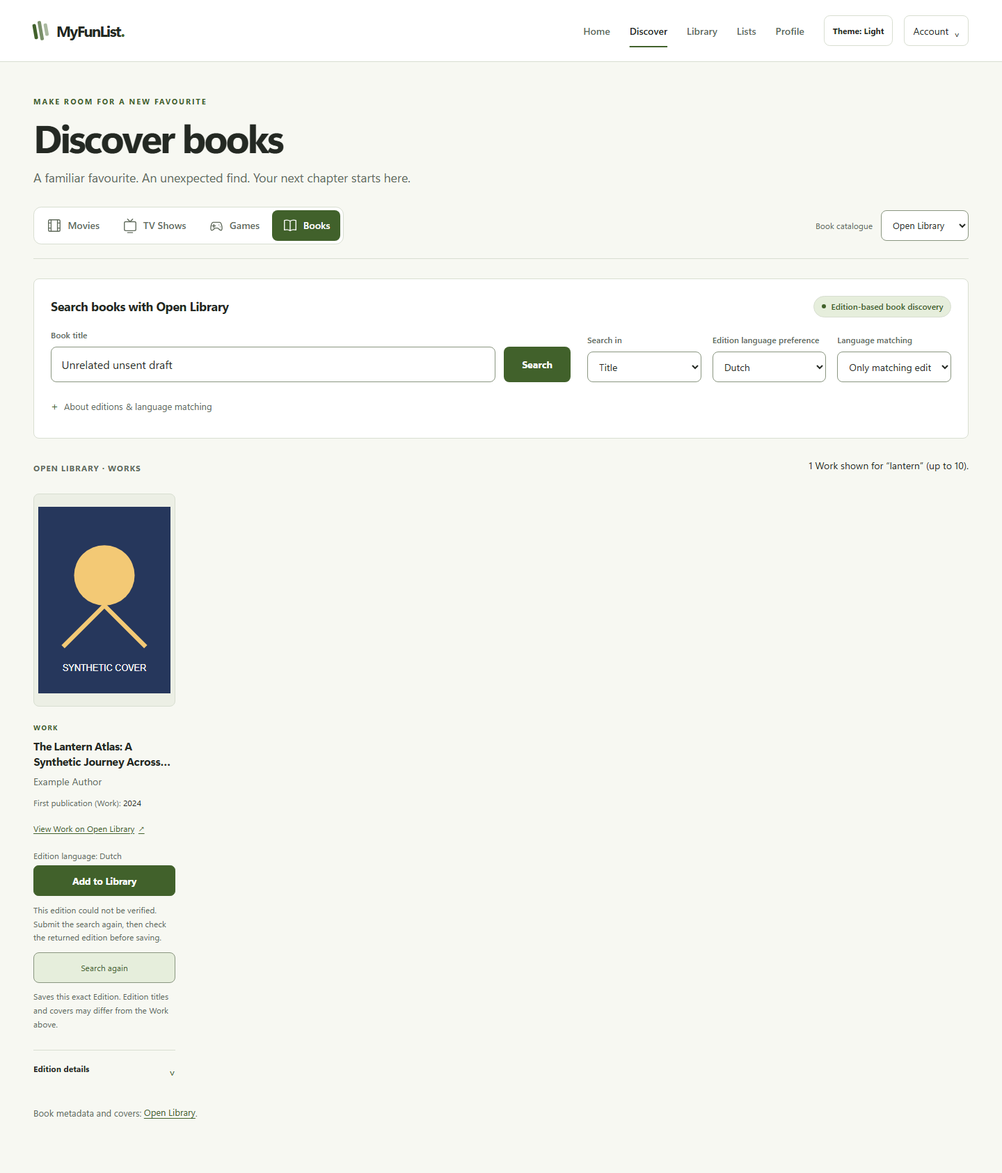
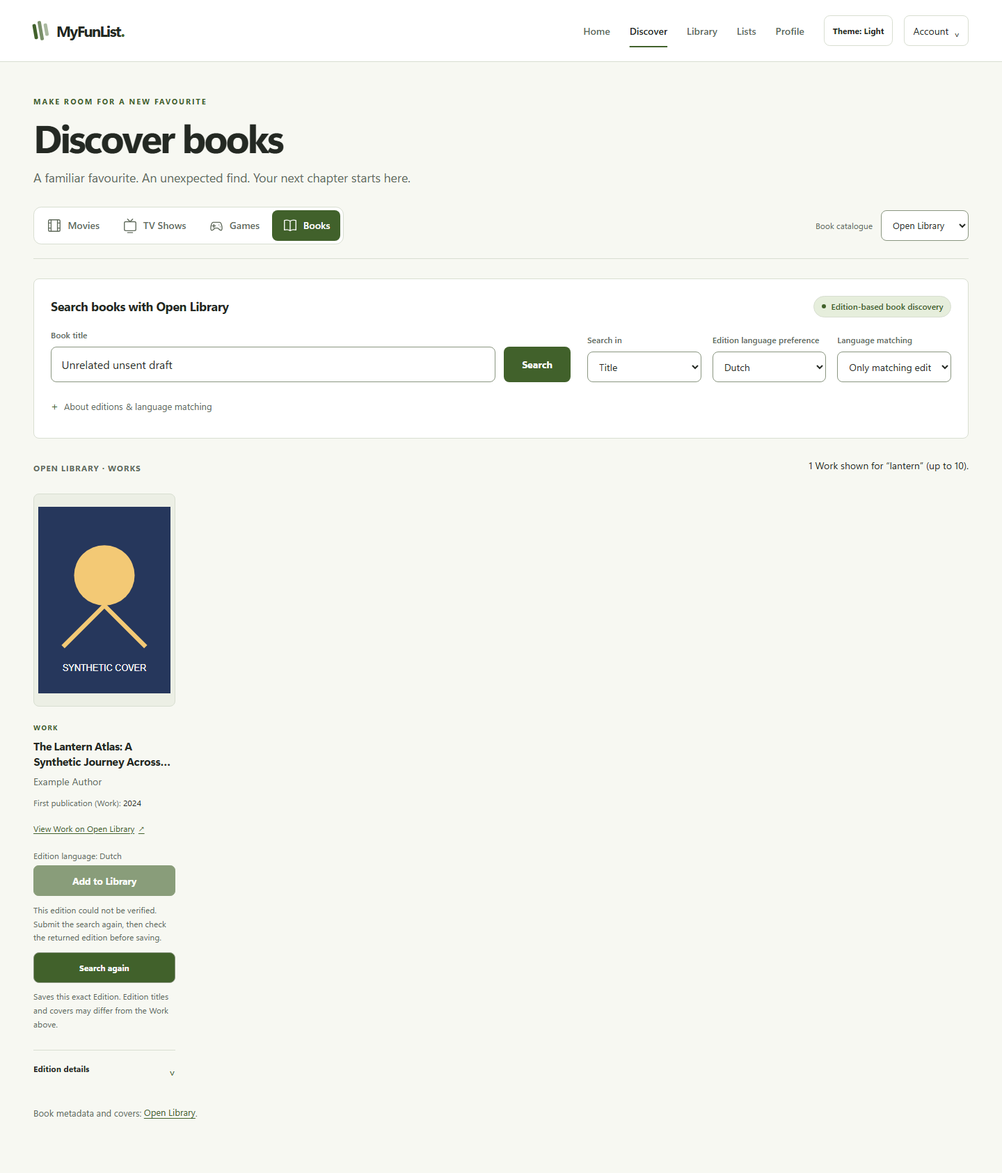
fix: block rejected edition saves until search renewal

Changed region(s): [[0.0312, 0.8024, 0.1875, 0.8641], [0.0312, 0.7407, 0.1875, 0.7715]]

diff --git a/tests/openLibraryView.test.js b/tests/openLibraryView.test.js
@@ -18,6 +18,7 @@ const OpenLibraryDiscover = await loadVueComponent(new URL('../src/components/Op
 OpenLibraryDiscover.name = 'OpenLibraryDiscover'
 const DiscoverView = await loadVueComponent(new URL('../src/views/DiscoverView.vue', import.meta.url))
 const WorkCard = await loadVueComponent(new URL('../src/components/OpenLibraryWorkCard.vue', import.meta.url))
+const LibraryAddButton = await loadVueComponent(new URL('../src/components/LibraryAddButton.vue', import.meta.url))
 const originalFetch = globalThis.fetch
 const mounted = []
 const work = { provider: 'open-library', workId: 'OL1W', workTitle: 'A modern book', authors: [], firstPublicationYear: 2024,
@@ -434,6 +435,86 @@ test('rejected trusted-cache saves require manual search refresh and preserve li
   assert.equal(useLibrary().libraryItems.value.length, 0)
 })
 
+test('an unverifiable card blocks UI and emitted save attempts while unrelated cards remain available', async () => {
+  currentUser.value = { id: '10', email: 'fixture@example.test' }
+  const writes = []
+  globalThis.fetch = async (path, options) => {
+    if (path === '/api/v1/auth/csrf') return ok({ csrfToken: 'synthetic-token' })
+    if (path === '/api/v1/library' && options.method === 'GET') return ok([])
+    if (path === '/api/v1/library') {
+      writes.push(JSON.parse(options.body).media.sourceId)
+      return { ok: false, status: 409, json: async () => ({ error: { code: 'edition_unavailable' } }) }
+    }
+    return ok(response([work, { ...work, workId: 'OL3W', selectedEdition: { ...work.selectedEdition, editionId: 'OL4M' } }]))
+  }
+  const { view } = await page()
+  const cards = view.findAll('.open-library-work')
+  const rejected = cards[0].getComponent(LibraryAddButton)
+  await rejected.trigger('click')
+  await flushPromises()
+  assert.equal(rejected.attributes('disabled'), '')
+  assert.equal(cards[0].get('.edition-save__renew').attributes('disabled'), undefined)
+  for (let attempt = 0; attempt < 3; attempt++) rejected.vm.$emit('add')
+  await rejected.trigger('click')
+  await flushPromises()
+  assert.deepEqual(writes, ['OL2M'])
+  assert.equal(cards[1].get('.library-add-button').attributes('disabled'), undefined)
+  assert.equal(cards[1].find('.edition-save__renew').exists(), false)
+  await cards[1].get('.library-add-button').trigger('click')
+  await flushPromises()
+  assert.deepEqual(writes, ['OL2M', 'OL4M'])
+  await view.get('#open-library-query').setValue('')
+  await flushPromises()
+  assert.equal(cards[0].get('.edition-save__renew').attributes('disabled'), '')
+  rejected.vm.$emit('add')
+  await flushPromises()
+  assert.equal(writes.length, 2)
+})
+
+test('other save errors retain explicit retries instead of locking the Edition', async () => {
+  currentUser.value = { id: '10', email: 'fixture@example.test' }
+  let writes = 0
+  globalThis.fetch = async (path, options) => {
+    if (path === '/api/v1/auth/csrf') return ok({ csrfToken: 'synthetic-token' })
+    if (path === '/api/v1/library' && options.method === 'GET') return ok([])
+    if (path === '/api/v1/library') {
+      writes++
+      return { ok: false, status: 500, json: async () => ({ error: { code: 'internal_error' } }) }
+    }
+    return ok(response())
+  }
+  const { view } = await page()
+  await view.get('.library-add-button').trigger('click')
+  await flushPromises()
+  assert.equal(view.get('.library-add-button').attributes('disabled'), undefined)
+  assert.equal(view.find('.edition-save__renew').exists(), false)
+  await view.get('.library-add-button').trigger('click')
+  await flushPromises()
+  assert.equal(writes, 2)
+})
+
+test('a late unverifiable rejection cannot disable a new account card', async () => {
+  currentUser.value = { id: '10', email: 'fixture@example.test' }
+  let finish
+  let writes = 0
+  globalThis.fetch = async (path, options) => {
+    if (path === '/api/v1/auth/csrf') return ok({ csrfToken: 'synthetic-token' })
+    if (path === '/api/v1/library' && options.method === 'GET') return ok([])
+    if (path === '/api/v1/library') { writes++; return new Promise(resolve => { finish = resolve }) }
+    return ok(response())
+  }
+  const { view } = await page()
+  await view.get('.library-add-button').trigger('click')
+  await flushPromises()
+  currentUser.value = { id: '20', email: 'other@example.test' }
+  await flushPromises()
+  finish({ ok: false, status: 409, json: async () => ({ error: { code: 'edition_unavailable' } }) })
+  await flushPromises()
+  assert.equal(view.get('.library-add-button').attributes('disabled'), undefined)
+  assert.equal(view.find('.edition-save__renew').exists(), false)
+  assert.equal(writes, 1)
+})
+
 for (const nextEdition of ['same', 'changed', 'missing']) test(`Search again renews the submitted options, isolates drafts and requires manual saving (${nextEdition})`, async () => {
   currentUser.value = { id: '10', email: 'fixture@example.test' }
   const searches = []
@@ -455,6 +536,7 @@ for (const nextEdition of ['same', 'changed', 'missing']) test(`Search again ren
   await view.get('.library-add-button').trigger('click')
   await flushPromises()
   assert.equal(searches.length, 1)
+  assert.equal(view.get('.library-add-button').attributes('disabled'), '')
   const renew = view.get('.edition-save__renew').element
   renew.click()
   renew.click()
@@ -474,6 +556,7 @@ for (const nextEdition of ['same', 'changed', 'missing']) test(`Search again ren
     assert.equal(view.find('.library-add-button').exists(), false)
     assert.match(view.text(), /No supported Works/)
   } else {
+    assert.equal(view.get('.library-add-button').attributes('disabled'), undefined)
     await view.get('.library-add-button').trigger('click')
     await flushPromises()
     assert.equal(writes.length, 2)
@@ -500,6 +583,7 @@ test('renewal failures use existing cooldown/error feedback; expiry never retrie
   await view.get('.edition-save__renew').trigger('click')
   await flushPromises()
   assert.match(view.get('.catalogue-summary [role=alert]').text(), /Too many searches/)
+  assert.equal(view.find('.library-add-button').exists(), false)
   assert.equal(view.get('.catalogue-retry').attributes('disabled'), '')
   await view.get('.catalogue-retry').trigger('click')
   assert.equal(searches, 2)
@@ -507,8 +591,41 @@ test('renewal failures use existing cooldown/error feedback; expiry never retrie
   await flushPromises()
   assert.equal(searches, 2)
   assert.equal(view.get('.catalogue-retry').attributes('disabled'), undefined)
+  assert.equal(view.find('.library-add-button').exists(), false)
   await view.get('.catalogue-retry').trigger('click')
   await flushPromises()
+  assert.equal(searches, 3)
+  assert.equal(writes, 1)
+  assert.equal(view.get('.library-add-button').attributes('disabled'), undefined)
+})
+
+test('failed renewal removes the rejected result until a successful explicit retry returns an eligible Edition', async () => {
+  currentUser.value = { id: '10', email: 'fixture@example.test' }
+  let searches = 0
+  let writes = 0
+  globalThis.fetch = async (path, options) => {
+    if (path === '/api/v1/auth/csrf') return ok({ csrfToken: 'synthetic-token' })
+    if (path === '/api/v1/library' && options.method === 'GET') return ok([])
+    if (path === '/api/v1/library') { writes++; return { ok: false, status: 409, json: async () => ({ error: { code: 'edition_unavailable' } }) } }
+    searches++
+    return searches === 2 ? { ok: false, status: 502, json: async () => ({ error: { code: 'provider_error' } }) } : ok(response())
+  }
+  const { view, router } = await page()
+  await view.get('.library-add-button').trigger('click')
+  await flushPromises()
+  assert.equal(view.get('.library-add-button').attributes('disabled'), '')
+  await view.get('.edition-save__renew').trigger('click')
+  await flushPromises()
+  assert.equal(view.find('.library-add-button').exists(), false)
+  assert.match(view.get('.catalogue-summary [role=alert]').text(), /unsupported data/)
+  await router.push('/library')
+  await router.push('/discover?provider=open-library&q=modern')
+  await flushPromises()
+  assert.equal(searches, 2)
+  assert.equal(view.find('.library-add-button').exists(), false)
+  await view.get('.catalogue-retry').trigger('click')
+  await flushPromises()
+  assert.equal(view.get('.library-add-button').attributes('disabled'), undefined)
   assert.equal(searches, 3)
   assert.equal(writes, 1)
 })

diff --git a/tests/ui/stagingQaRefinements.spec.js b/tests/ui/stagingQaRefinements.spec.js
@@ -78,10 +78,28 @@ test('Open Library recovery renews retained results and options without submitti
   await page.getByRole('button', { name: /^Add to Library:/ }).click()
   const renew = page.getByRole('button', { name: 'Search again', exact: true })
   await expect(renew).toBeVisible()
+  const rejectedAdd = page.getByRole('button', { name: /^Add to Library:/ })
+  await expect(rejectedAdd).toBeDisabled()
+  await rejectedAdd.evaluate(button => {
+    for (let attempt = 0; attempt < 3; attempt++) button.dispatchEvent(new MouseEvent('click', { bubbles: true }))
+  })
+  expect(app.writes()).toBe(1)
+  const originalViewport = page.viewportSize()
+  for (const width of [320, 390, 768]) {
+    await page.setViewportSize({ width, height: 900 })
+    await checkLayout(page)
+    expect((await renew.boundingBox()).height).toBeGreaterThanOrEqual(44)
+  }
+  await page.setViewportSize(originalViewport)
   await checkLayout(page)
   expect((await renew.boundingBox()).height).toBeGreaterThanOrEqual(44)
   await capture(page, info, 'stale-edition-recovery-light', renew)
   await page.getByRole('button', { name: 'Switch to dark mode', exact: true }).filter({ visible: true }).click()
+  await renew.focus()
+  await renew.press('Shift+Tab')
+  await page.keyboard.press('Tab')
+  await expect(renew).toBeFocused()
+  expect(await renew.evaluate(button => getComputedStyle(button).outlineWidth)).toBe('2px')
   await capture(page, info, 'stale-edition-recovery-dark', renew)
   let finish
   sandbox.pilotRespond = async () => {
@@ -100,6 +118,8 @@ test('Open Library recovery renews retained results and options without submitti
   await expect(page.getByRole('button', { name: /^Add to Library:/ })).toBeEnabled()
   expect(app.writes()).toBe(1)
   await capture(page, info, 'edition-renewed-dark', page.locator('.edition-save'))
+  await page.getByRole('button', { name: 'Switch to light mode', exact: true }).filter({ visible: true }).click()
+  await capture(page, info, 'edition-renewed-light', page.locator('.edition-save'))
   // Ook binnen de client-TTL moet een nieuwe afwijzing werkelijk opnieuw zoeken.
   await page.getByRole('button', { name: /^Add to Library:/ }).click()
   sandbox.pilotRespond = async () => ({ json: { data: openLibraryResult([{ ...openLibraryWork,
@@ -145,6 +165,7 @@ test('Renewal error observes cooldown and manual retry without automatically sav
   sandbox.pilotRespond = async () => ({ status: 503, headers: { 'Retry-After': '2' }, json: { error: { code: 'provider_busy' } } })
   await page.getByRole('button', { name: 'Search again', exact: true }).click()
   await expect(page.locator('.open-library-discover').getByRole('alert')).toContainText('shared provider budget')
+  await expect(page.getByRole('button', { name: /^Add to Library:/ })).toHaveCount(0)
   const retry = page.getByRole('button', { name: 'Please wait before retrying', exact: true })
   await expect(retry).toBeDisabled()
   expect(sandbox.pilotRequests).toBe(2)
@@ -152,6 +173,7 @@ test('Renewal error observes cooldown and manual retry without automatically sav
   await page.clock.setFixedTime(now + 3000)
   const ready = page.getByRole('button', { name: 'Retry search', exact: true })
   await expect(ready).toBeEnabled()
+  await expect(page.getByRole('button', { name: /^Add to Library:/ })).toHaveCount(0)
   expect(sandbox.pilotRequests).toBe(2)
   sandbox.pilotRespond = async () => ({ json: { data: openLibraryResult([]) } })
   await ready.click()

diff --git a/src/components/OpenLibraryEditionSave.vue b/src/components/OpenLibraryEditionSave.vue
@@ -38,7 +38,7 @@ async function retryLibrary() {
 
 async function save() {
   if (!currentUser.value || isAuthLoading.value || !isLibraryLoaded.value || libraryError.value
-    || busy.value || waiting.value || hasLibraryItem(media.value) || !isSupportedMediaIdentity(media.value)) return
+    || busy.value || waiting.value || unverifiable.value || hasLibraryItem(media.value) || !isSupportedMediaIdentity(media.value)) return
   const requestVersion = version
   busy.value = true
   feedback.value = ''
@@ -79,7 +79,7 @@ async function save() {
       <button class="text-button" type="button" @click="retryLibrary">Retry Library</button>
     </div>
     <LibraryAddButton v-else :media="media" :is-library-loaded="isLibraryLoaded" :is-added="hasLibraryItem(media)"
-      :is-adding="busy" :has-identity="isSupportedMediaIdentity(media) && !waiting" @add="save" />
+      :is-adding="busy" :has-identity="isSupportedMediaIdentity(media) && !waiting && !unverifiable" @add="save" />
     <p v-if="feedback" :role="failed ? 'alert' : 'status'" class="edition-save__note">{{ feedback }}</p>
     <button v-if="unverifiable" class="edition-save__renew" type="button" :disabled="!canRenew || busy || waiting" @click="emit('renew-search')">Search again</button>
     <RouterLink v-if="hasLibraryItem(media)" class="inline-link" :to="`/media/book/open-library/${edition.editionId}`">Open saved edition</RouterLink>
@@ -90,7 +90,7 @@ async function save() {
 <style scoped>
 .edition-save { min-width: 0; padding-top: 0.75rem; border-top: 1px solid var(--color-border); }
 .edition-save__note { margin: 0.65rem 0; color: var(--color-text-muted); font-size: var(--text-xs); line-height: 1.65; }
-.edition-save__renew { width: 100%; min-height: 44px; padding: 0.4rem; border: 1px solid var(--color-control-border); border-radius: var(--radius-control); background: var(--color-primary-soft); color: var(--color-primary-ink); font: inherit; font-size: var(--text-xs); cursor: pointer; }
+.edition-save__renew { width: 100%; min-height: 44px; padding: 0.4rem; border: 1px solid var(--color-control-border); border-radius: var(--radius-control); background: var(--color-primary); color: var(--color-on-primary); font: inherit; font-size: var(--text-xs); font-weight: 650; cursor: pointer; }
 .edition-save__renew:disabled { opacity: 0.65; cursor: not-allowed; }
 .edition-save__renew:focus-visible { outline: 2px solid var(--color-primary-ink); outline-offset: 2px; }
 .edition-save :deep(.library-add-button) { display: inline-flex; justify-content: center; align-items: center; min-height: 44px; width: 100%; box-sizing: border-box; }

diff --git a/qa/reviews/staging-qa-refinements/report.md b/qa/reviews/staging-qa-refinements/report.md
@@ -2,6 +2,18 @@
 
 19 November 2026. Branch: `review/staging-qa-refinements`; clean base: fetched `origin/main` at `9f58e47` (PR #14).
 
+## Independent-review follow-up
+
+The follow-up used only the verified root `C:\Users\game1\Documents\ChatGPT\MyFunList\repository`, with a clean branch matching fetched PR #15 head `04539f5`. No other repository, branch, worktree, clone or PR was created or modified.
+
+Independent review found that the rejected Add action remained enabled after `edition_unavailable`. The existing rejection flag now disables Add and independently guards the handler before another request can start. Search again uses primary theme colors and weight. Saving resumes through a newly returned eligible Edition after successful renewal and still requires a separate explicit save. Failed/rate-limited renewal exposes only the search error/Retry UI; blocked renewal retains the disabled rejected action. Unrelated cards and other save errors keep their existing behavior. Authentication, membership, exact identity, cooldown/deduplication, server verification and account/late-response guards remain.
+
+Latest checks: **101 focused unit tests passed**; full **421 total: 409 passed, 12 existing Windows Linux/POSIX skips**, zero failures; production build passed with 120 modules. The updated focused headless suite passed **18/18**, clean exit, in 39.7s. Full `npm run test:ui -- --global-timeout=600000` passed **104/104** (52 desktop + 52 mobile) in **5.0 minutes**, clean teardown and exit 0. Documentation checks passed **97** local file/heading links, and `git diff --check` passed. Four new unit regressions cover repeated emitted save attempts, unrelated cards, other errors, a late 409 after account change and failed-renewal recovery; existing same/changed/missing and rate-limited renewal checks were strengthened. Browser assertions verify disabled Add, rejected-card click suppression, primary recovery, keyboard focus and no old Add during a renewal error or cooldown expiry. No new failure or skip was introduced; existing warnings listed below remain. No standalone PHP/database suite was rerun for this frontend-only change.
+
+Eight recovery captures were regenerated from the passing focused run and individually opened: disabled Add plus primary Search again in Light/Dark on desktop/mobile, then eligible Add after successful renewal in both themes. The dark rejection frames show the keyboard focus outline. Existing Home and 320px eligibility captures are preserved. The current **12 PNGs total 835,423 bytes**; prior screenshots remain in Git at `04539f5`. No evidence was removed. Responsive recovery assertions pass at 320px, 390px and 768px; the action is at least 44px high and keyboard focus has a 2px outline. Text contrast and wrapping remain readable; mobile Light focuses the recovery area with Details near the fixed-navigation edge, while the Dark frame shows Details above navigation. The existing desktop native language-matching truncation and intentional mobile crops remain limitations.
+
+Incremental scope: `OpenLibraryEditionSave.vue`, `tests/openLibraryView.test.js`, `tests/ui/stagingQaRefinements.spec.js`, four context/history/recovery documents, this report and recovery images. No backend/schema, dependency, flag, workflow or hosting changes. No live provider/account/database access, merge, deployment or branch deletion. Deployed trust-expiry/auth persistence, physical devices and screen readers still require separate acceptance.
+
 ## Scope and supplied staging findings
 
 The owner reports completed live staging QA: successful deployment, five working search flows, exact-Edition quick-add and authenticated Library/Lists, no critical/high defects, medium QA-01 and two related Open Library UX opportunities. This report documents the new branch's local automated and mocked headless checks, not a new staging/live-provider review.
@@ -10,7 +22,7 @@ QA-01 restored `inputQuery` from an earlier matching display snapshot even when 
 
 Unverifiable-Edition feedback now offers Search again. It renews the submitted query/options rather than the input draft, bypasses only the matching client cache, removes only that display snapshot and preserves pending-request deduplication/cooldowns. No save runs automatically. Returned eligible Editions require another explicit Add action; changed/missing Editions are never substituted into an old save. Server trust checks, TTLs, admission, authentication/CSRF and membership guards remain authoritative. Reliable local identity/title/language reasons are explained separately; server `edition_unavailable` remains generic because its exact cause is unavailable to the frontend.
 
-## Executed checks
+## Original implementation checks (`04539f5`)
 
 | Command/check | Result |
 | --- | --- |
@@ -36,16 +48,18 @@ Two existing explicit empty-result Search assertions now expect a genuine renewa
 
 ## Screenshots and actual inspection
 
-All ten selected PNGs were opened and visually inspected. They total **700,245 bytes** and were copied without overwrite from the successful final full run's ignored output into this fresh review directory. Desktop base viewport: 1440×900 with full-page captures; mobile: 390×844 touch emulation with viewport captures; narrow eligibility: 320×900. Only fictional data/artwork is shown.
+The original ten selected PNGs were opened and visually inspected at `04539f5` (700,245 bytes). The independent-review follow-up updates the recovery frames in this same directory, adds two renewed Light captures and preserves the other images, as recorded above. Desktop base viewport: 1440×900 with full-page captures; mobile: 390×844 touch emulation with viewport captures; narrow eligibility: 320×900. Only fictional data/artwork is shown.
 
 | Screenshot | Inspected finding |
 | --- | --- |
 | [Desktop Home submission, Light](desktop-home-submission-fixed-light.png) | Input and result label both show Inception; retained six-card row, artwork and actions align |
 | [Mobile Home submission, Light](mobile-home-submission-fixed-light.png) | Inception input and controls fit above fixed navigation; cards lie below this frame and are asserted separately |
-| [Desktop recovery, Light](desktop-stale-edition-recovery-light.png) | Unsent draft stays separate from submitted lantern label; readable unverifiable feedback and compact full-column Search again with Details closed |
-| [Desktop recovery, Dark](desktop-stale-edition-recovery-dark.png) | Lime/soft action distinction, text contrast, exact-Edition note and optional Details remain readable |
-| [Mobile recovery, Light](mobile-stale-edition-recovery-light.png) | Wrapped feedback, language, Add and 44px Search again fit above fixed navigation; card uses its existing compact column |
-| [Mobile recovery, Dark](mobile-stale-edition-recovery-dark.png) | Action, feedback, Edition caveat and Details remain readable without navigation overlap |
+| [Desktop recovery, Light](desktop-stale-edition-recovery-light.png) | Disabled Add and primary Search again are distinct; readable feedback, exact-Edition note and closed Details |
+| [Desktop recovery, Dark](desktop-stale-edition-recovery-dark.png) | Muted disabled Add contrasts with primary lime Search again and a visible keyboard focus outline |
+| [Mobile recovery, Light](mobile-stale-edition-recovery-light.png) | Disabled Add, wrapped feedback and 44px primary Search again fit above fixed navigation; Details is near this frame's lower edge |
+| [Mobile recovery, Dark](mobile-stale-edition-recovery-dark.png) | Disabled Add, focused primary recovery, feedback, Edition caveat and Details remain readable without navigation overlap |
+| [Desktop renewed Edition, Light](desktop-edition-renewed-light.png) | Eligible Add is enabled after renewal; rejection/recovery removed, draft and submitted label stay distinct |
+| [Mobile renewed Edition, Light](mobile-edition-renewed-light.png) | Eligible Add, exact-Edition note and Details fit above fixed navigation; no automatic save |
 | [Desktop renewed Edition, Dark](desktop-edition-renewed-dark.png) | Fresh eligible Add is enabled; old rejection/action removed; input draft and submitted label remain distinct |
 | [Mobile renewed Edition, Dark](mobile-edition-renewed-dark.png) | Enabled Add, exact-Edition caveat and Details fit above fixed navigation; no automatic save feedback |
 | [320px eligibility, Light](mobile-eligibility-320-light.png) | Specific missing-title explanation fits the first card; no unavailable save action, readable metadata/Details |
@@ -64,7 +78,7 @@ Automated layout checks cover 320px, 390px and 768px, both themes for eligibilit
 - Frontend: `src/router/discoverSubmission.js`, `src/views/HomeView.vue`, `src/composables/useDiscoverSearch.js`, `src/services/openLibrary.js`, `src/components/OpenLibraryDiscover.vue`, `src/components/OpenLibraryWorkCard.vue`, `src/components/OpenLibraryEditionSave.vue`.
 - Tests: `tests/homeDiscoverSubmission.test.js`, `tests/openLibrary.test.js`, `tests/openLibraryView.test.js`, `tests/ui/openLibrary.spec.js`, `tests/ui/stagingQaRefinements.spec.js`.
 - Permanent documentation: `README.md`, `PROJECT_CONTEXT.md`, `docs/PROJECT_HISTORY.md`, `docs/DISCOVER_PROVIDER_STATE.md`, `docs/OPEN_LIBRARY_LIBRARY_INTEGRATION.md`.
-- Temporary review evidence: this report and the ten linked PNGs. Historical evidence is preserved.
+- Temporary review evidence: this updated report and the twelve linked PNGs. Historical evidence is preserved in Git; Home/eligibility captures are unchanged by the follow-up.
 
 ## Remaining release verification
 

diff --git a/PROJECT_CONTEXT.md b/PROJECT_CONTEXT.md
@@ -1,5 +1,7 @@
 # MyFunList project context
 
+PR #15 independent-review follow-up (19 November 2026), in `C:\Users\game1\Documents\ChatGPT\MyFunList\repository`: an `edition_unavailable` rejection now disables that displayed Edition's Add action and guards the save handler. Search again is the primary recovery action; a successful renewal must return an eligible Edition before another explicit save. Failed/blocked/cooldown renewal does not unlock the rejected card; unrelated cards and other errors retain their existing behavior. Account/membership, exact identity and late-response guards remain. See the [follow-up record](docs/PROJECT_HISTORY.md#pr-15-independent-review-follow-up--19-november-2026) and existing review evidence; no new branch, merge or deployment is included.
+
 Current review: `review/staging-qa-refinements`, based on fetched main `9f58e47` (merged PR #14). The owner's completed live staging QA confirmed deployment, all five search flows, exact-Edition quick-add and authenticated Library/Lists, with no critical/high defects. QA-01 (medium) found a restored unsent draft overriding a later Home submission; two related opportunities concerned stale-Edition recovery and eligibility explanations. This branch distinguishes explicit Home submissions from contextual/history restoration, reuses matching results, adds submitted-query-only Open Library renewal and explains reliable eligibility reasons. Backend/security/trust durations, flags, rate limits and hosting are unchanged. See [navigation contract](docs/DISCOVER_PROVIDER_STATE.md#explicit-submissions-and-staging-qa-01) and [recovery contract](docs/OPEN_LIBRARY_LIBRARY_INTEGRATION.md#staging-qa-recovery-refinements). The older candidate descriptions below are historical; this branch has not been merged or deployed. New checks and remaining acceptance gaps are recorded with the refinement review.
 
 The `review/discover-provider-state` candidate starts from main `44de0ea` and carries the existing PR #13 quick-add commit while that PR remains open. Books defaults to Open Library when its frontend flag is enabled, otherwise Google Books; explicit providers and error isolation remain. A shared 20-entry session display store retains all five search flows beyond API cache TTL. Clearing input retains current cards, removes only the active local snapshot/cache and submitted URL query, rejects late responses and returns idle after leaving. API caches/cooldowns, server-side Open Library cache/admission, backend and hosting remain unchanged. See [behavior and limits](docs/DISCOVER_PROVIDER_STATE.md) and [retained QA findings](docs/DISCOVER_PROVIDER_STATE.md#verification). PR #14 remains ready for review; its temporary evidence was removed after retaining results, visual findings, failure history and limitations. No merge or deployment accompanies this candidate.
@@ -30,7 +32,7 @@ The staging host is [lightcyan-snake-955164.hostingersite.com](https://lightcyan
 
 | Area | Implemented state | Verification status |
 | --- | --- | --- |
-| Staging QA refinements candidate | Explicit Home input initialization with snapshot reuse; submitted-query-only Open Library renewal and specific reliable eligibility feedback | 97 focused tests; full 405 passed / 12 existing Windows skips; build; 104 isolated headless tests; ten inspected temporary screenshots. [Findings and remaining release gaps](docs/PROJECT_HISTORY.md#staging-qa-refinements--19-november-2026). Owner-reported PR #14 live QA is separate; this candidate is not deployed |
+| Staging QA refinements candidate | Explicit Home input initialization with snapshot reuse; submitted-query-only Open Library renewal, rejected-card save guard and reliable eligibility feedback | Follow-up: 101 focused tests; full 409 passed / 12 existing Windows skips; build; 104 isolated headless tests; eight inspected recovery captures refreshed, twelve review images retained. [Findings and remaining release gaps](docs/PROJECT_HISTORY.md#pr-15-independent-review-follow-up--19-november-2026). Owner-reported PR #14 live QA is separate; this candidate is not deployed |
 | Open Library Library integration candidate | Exact Edition identities, trusted-cache-only save resolution, shared Library/List tracking and persisted-detail fallback; Google remains default | The [retained QA findings](docs/OPEN_LIBRARY_LIBRARY_INTEGRATION.md#verification-and-limitations) record 364 passing unit tests (12 platform skips), build, 68 headless tests, PHP provider/API checks and 28 real MariaDB persistence assertions. Both temporary reports and ten screenshots removed for final review; historical evidence preserved; no deployment/live acceptance |
 | Open Library public access candidate | Default-disabled private public switch, tester fallback, strict deployment access modes and public read-only messaging; Google stays default | 357 unit tests passed, 12 existing skips; build, 64 headless tests with clean final teardown, safe PHP provider/API suites and 79 syntax checks passed. Initial browser teardown failure, reproduction and visual findings preserved in the [rollout verification record](docs/OPEN_LIBRARY_PUBLIC_ACCESS.md#local-verification); temporary PR #11 evidence removed. No private host change/deployment/public availability verification |
 | Discover navigation fix (PR #10) | Bounded success/empty/error restoration, pending deduplication, safe internal Detail Back, Movies default and explicit/legacy-compatible Books URLs | 357 unit tests passed, 12 existing skips; build, 64 headless tests, focused capture rerun and PHP provider/API suites passed; staging deployment must be checked separately; RAWG root cause remains uncertain |

diff --git a/docs/PROJECT_HISTORY.md b/docs/PROJECT_HISTORY.md
@@ -1,5 +1,15 @@
 # MyFunList project history
 
+## PR #15 independent-review follow-up — 19 November 2026
+
+The required repository root was verified as `C:\Users\game1\Documents\ChatGPT\MyFunList\repository`; `origin` is `DarkGuardianMT/myfunlist`. The clean existing `review/staging-qa-refinements` branch and fetched PR #15 head both matched reviewed commit `04539f5`. No clone, worktree, branch or PR was created; no old OneDrive project was modified.
+
+Independent review found that Add to Library stayed enabled after `edition_unavailable`, allowing repeated rejected saves alongside Search again. The existing component-local rejection flag now disables Add and blocks the save handler before it can clear feedback or issue another request. Search again uses the existing primary theme colors and weight. A successful renewal provides a fresh eligible save component; a failed/rate-limited renewal has no old save action, and blocked recovery leaves the rejected action disabled. Another explicit save is always required. Other errors, unrelated cards, exact identity, server verification, authentication/membership, cooldown/deduplication and late-account-response guards retain their behavior.
+
+Follow-up validation passed: **101 focused unit tests**; full `npm test` **421 total, 409 passed and 12 existing Windows Linux/POSIX skips**, zero failures; production build (120 modules); focused headless **18/18** in 39.7s; full isolated headless **104/104** in 5.0 minutes with clean teardown and exit 0; **97** local documentation file/heading links and `git diff --check`. The same Node 24.22.1/Playwright 1.64.1 managed headless setup and synthetic network isolation were used. No new test failure or platform skip was introduced; existing negative-fixture, timer, color/native-stderr and LF/CRLF warnings remain. No standalone PHP/database suite was rerun for this single-component frontend change.
+
+Regression coverage now explicitly attempts emitted save events as well as disabled-button clicks, checks unrelated-card and other-error behavior, rejects late account feedback, and verifies failed/cooldown/same/changed/missing renewal without automatic writes. Responsive recovery checks cover 320px, 390px and 768px, with 44px primary actions and a visible 2px keyboard focus outline. Eight recovery screenshots were regenerated and opened in both themes on desktop/mobile; four unchanged Home/eligibility images remain. The existing QA report records the latest findings; temporary evidence stays on this PR branch. Deployed real-provider/trust-expiry, account persistence, physical-device and screen-reader acceptance remain separate release checks. No backend/schema, configuration, dependency, feature-flag, workflow, hosting, merge, deployment or branch deletion is included.
+
 ## Staging QA refinements — 19 November 2026
 
 `review/staging-qa-refinements` starts from freshly fetched main `9f58e47` (merged PR #14), with a clean baseline. The owner's completed live staging QA confirmed deployment, all five search flows, exact-Edition quick-add and authenticated Library/Lists, with no critical/high defects. It found medium QA-01: an unsent Discover draft survived Detail Back correctly but then overrode a new matching Home submission. Two related UX opportunities concerned stale trusted-Edition recovery and unclear eligibility feedback. These are supplied live findings, not new deployed checks by this task.

diff --git a/docs/OPEN_LIBRARY_LIBRARY_INTEGRATION.md b/docs/OPEN_LIBRARY_LIBRARY_INTEGRATION.md
@@ -46,6 +46,8 @@ Cache-only saving still requires fresh consistent trusted server metadata: an el
 
 ## Staging QA recovery refinements
 
+PR #15's independent-review follow-up blocks the rejected displayed Edition after `edition_unavailable`: Add is disabled and the save handler checks the same rejection flag before resetting feedback or issuing a request. Search again is the primary Light/Dark action with the existing 44px target and keyboard focus styling. A successful renewal must return an eligible selection before another explicit save; changed/missing selections remain distinct, and failed, blocked or rate-limited renewal cannot re-enable the unchanged rejected card. The restriction is local to the card; unrelated cards, other save errors and existing account/membership/late-response guards remain unchanged. See the [follow-up findings and verification](PROJECT_HISTORY.md#pr-15-independent-review-follow-up--19-november-2026).
+
 19 November 2026, `review/staging-qa-refinements`, based on merged PR #14 (`9f58e47`). The owner's completed staging QA confirmed exact-Edition quick-add and authenticated Library/Lists, alongside all five search flows and deployment, with no critical/high defects. It reproduced retained results outliving trusted server metadata: saving correctly failed, and manually repeating the search allowed that Edition to be saved. This branch improves recovery without changing trust or API contracts; its new behavior still requires deployed acceptance.
 
 The existing unverifiable-Edition feedback now exposes a compact **Search again** action. It renews only the submitted Open Library query and normalized field/language/matching options, never an unrelated input draft. Renewal removes only that display snapshot and bypasses only the matching browser result cache. Unrelated query/filter/provider/category caches survive, even when they contain the same Edition; the former broad Edition-cache invalidation is no longer called by save rejection. Loading removes old save controls and disables Search; duplicate actions share the existing in-flight request. Cooldowns remain authoritative, expiry only re-enables manual actions, and failures use the established search error/Retry UI. Route/disposal generations reject late display updates; pending-request identities still guard cache writes.

diff --git a/docs/DISCOVER_PROVIDER_STATE.md b/docs/DISCOVER_PROVIDER_STATE.md
@@ -38,6 +38,8 @@ Other categories, providers, queries and filter variants remain intact. Open Lib
 
 ## Quick-add and stale display limits
 
+PR #15 independent review additionally requires the rejected displayed Edition's Add action to remain disabled after `edition_unavailable`; the save handler enforces the same guard. Search again is the primary recovery action. Only a successful renewal returning an eligible Edition offers a new explicit save; failure, cooldown expiry or blocked renewal cannot unlock the unchanged rejected card. Unrelated cards and other save errors keep their behavior. See the [follow-up verification](PROJECT_HISTORY.md#pr-15-independent-review-follow-up--19-november-2026).
+
 The included quick-add action still saves only the exact valid selected Edition. A restored or currently retained card is a display snapshot, not an extension of server metadata freshness. If unseen-Edition trust has expired, the existing save endpoint can return 409. Its feedback now offers an explicit Search again action for the submitted query/options, independent of unsent input. The returned eligible Edition needs another explicit save action. No Edition substitution, automatic retry/search, backend metadata refresh or new upstream endpoint is introduced. Existing authentication, membership/loading, duplicate prevention, Library/List behavior and save-error handling remain unchanged.
 
 ## Verification
